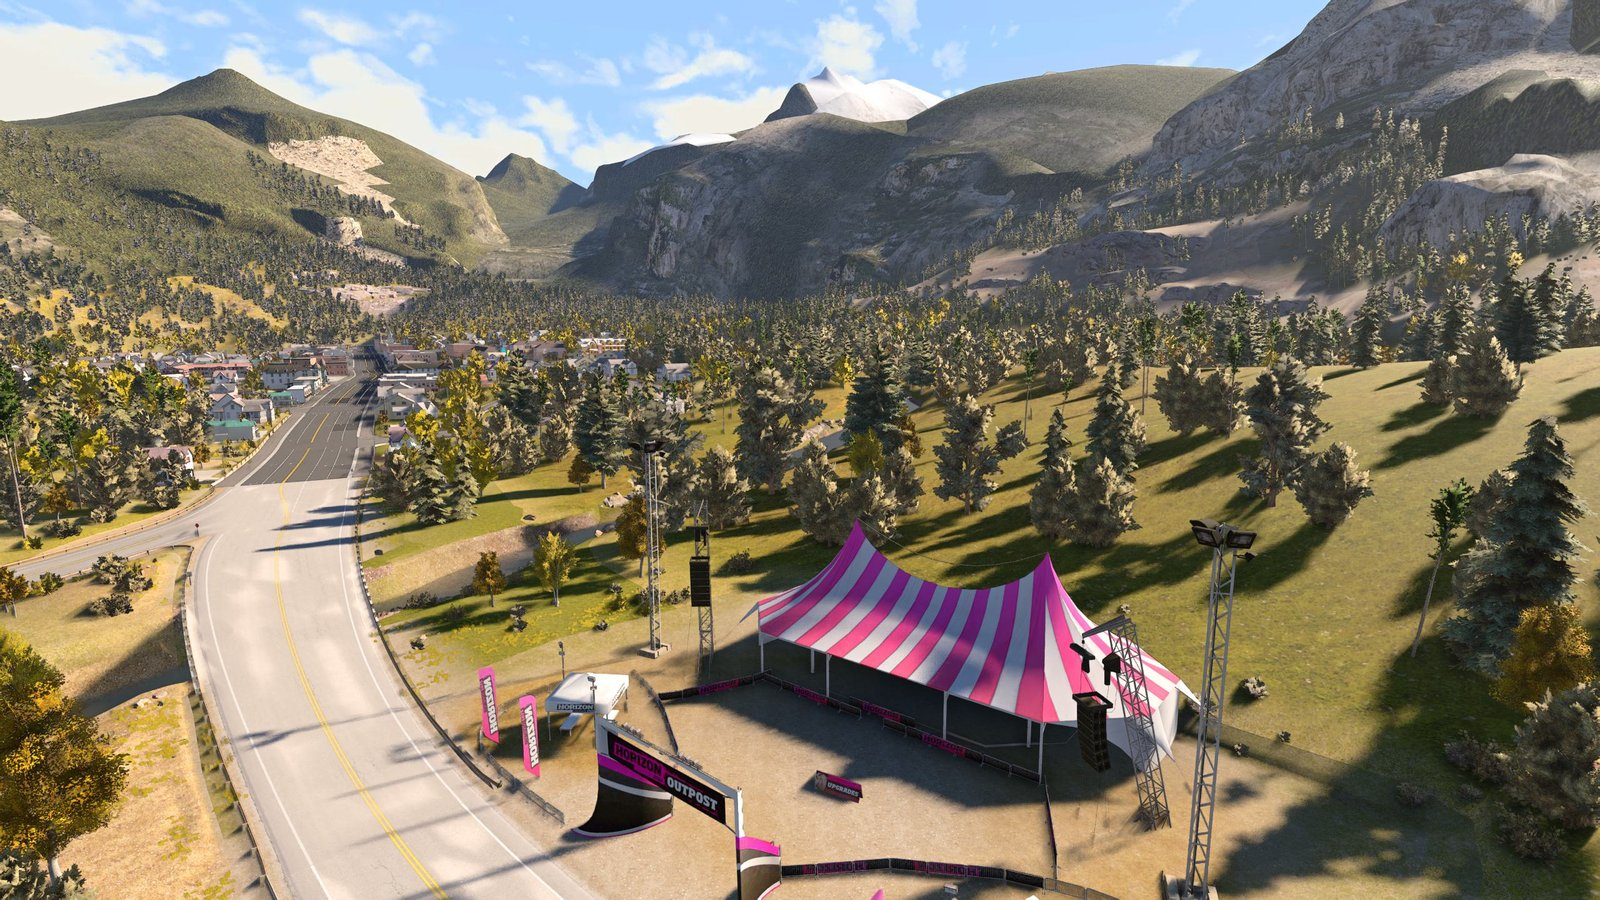
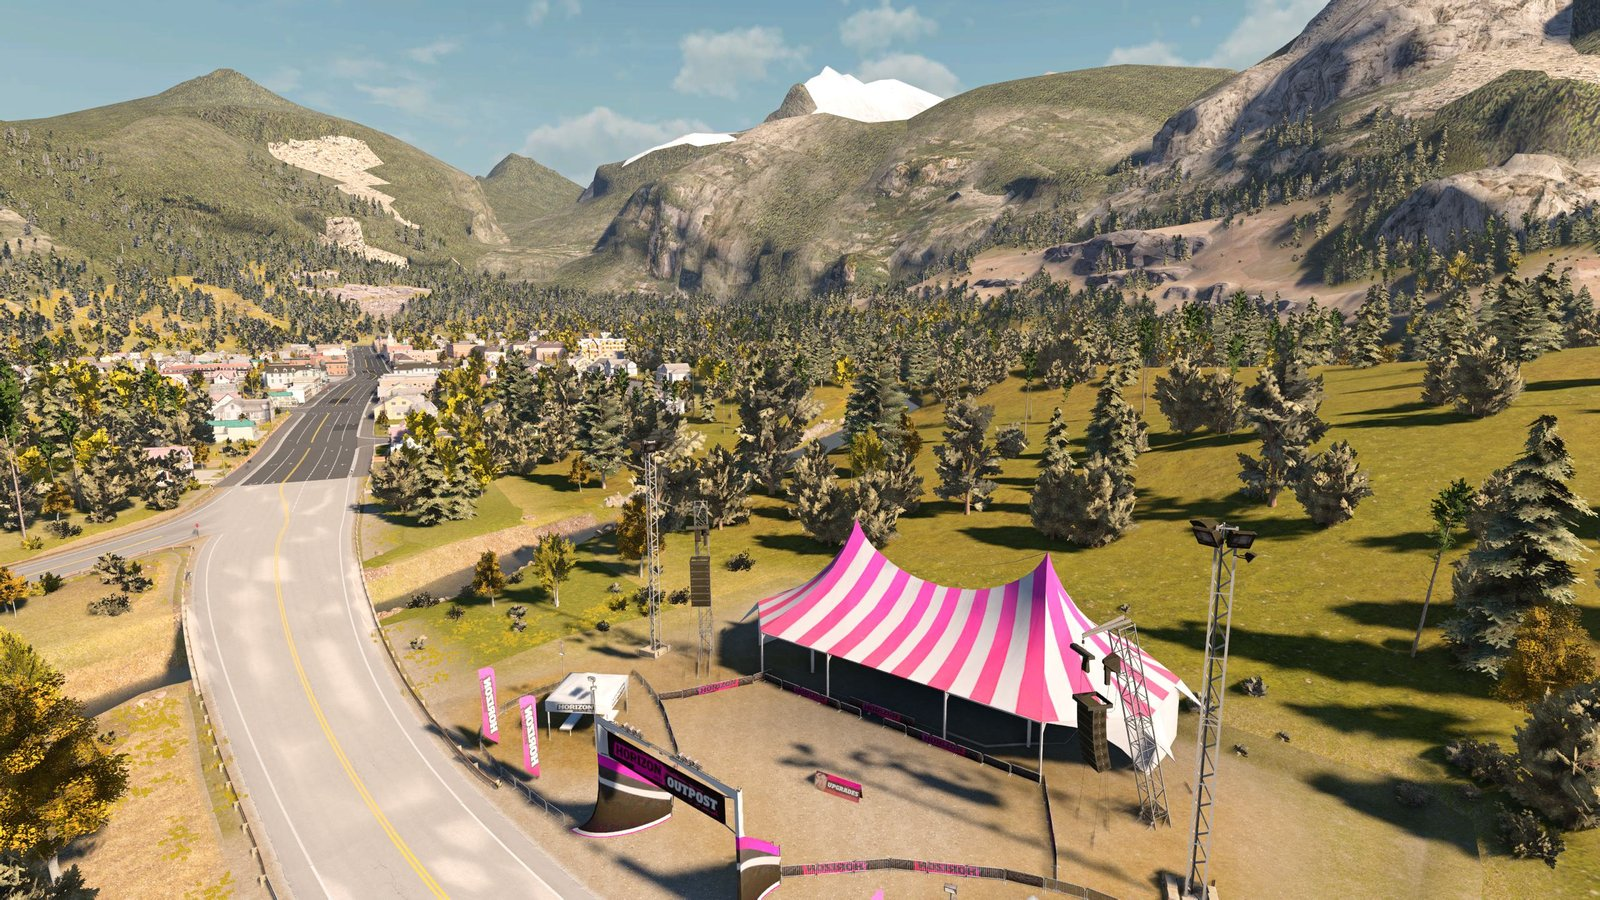
README gallery retaken from the current build; packaging/fh1_shots.py retakes it
The camera positions, times of day and frame choices from the 2026-11-14
gallery, as a script that drives BeamNG over its MCP server and writes the
README's JPEGs and WebPs. Montano Plains and Steelworks move to 0.235, as
BeamNG's sun now follows FH1's path and 0.9 is no longer sunset.

diff --git a/packaging/fh1_shots.py b/packaging/fh1_shots.py
@@ -1,0 +1,187 @@
+"""Retake the FH1 README gallery (docs/screenshots/fh1/) in a running BeamNG through its MCP server.
+
+Load fh1_colorado in BeamNG first, with any car: the car shots teleport your vehicle. The game's MCP server must be on
+(127.0.0.1:29292). Keep the window at the resolution you want the shots in (the originals were 2560x1440).
+
+    python packaging/fh1_shots.py [stills|daycycle|turbines|all]      (default: all)
+
+Camera positions, times of day and frame choices are the ones picked for the 2026-11-14 gallery. Time of day: 0 = noon,
+0.25 is about sunset, 0.3 is night, 0.79 early morning. Raw frames land in BeamNG's screenshots/readme/, and this script
+then writes the README's files: stills as 1600-wide JPEG, the day cycles and turbine loop as animated WebP.
+"""
+import json
+import os
+import sys
+import time
+import urllib.request
+from pathlib import Path
+
+from PIL import Image, ImageChops, ImageStat
+
+REPO = Path(__file__).resolve().parents[1]
+OUT = REPO / "docs" / "screenshots" / "fh1"
+SHOTS = Path(os.environ["LOCALAPPDATA"]) / "BeamNG" / "BeamNG.drive" / "current" / "screenshots" / "readme"
+URL = "http://127.0.0.1:29292/mcp"
+
+# Helpers: shotLook points the free camera from p at t; zoneView frames an outpost spawn from behind and above
+HELPERS = r"""
+function gz(x,y) return be:getSurfaceHeightBelow(vec3(x,y,2000)) end
+function shotLook(px,py,pz,tx,ty,tz,fov)
+  local p=vec3(px,py,pz) local q=quatFromDir((vec3(tx,ty,tz)-p):normalized(), vec3(0,0,1))
+  if not commands.isFreeCamera() then commands.setFreeCamera() end
+  core_camera.setPosRot(0, p.x,p.y,p.z, q.x,q.y,q.z,q.w)
+  if fov then core_camera.setFOV(0, fov) end
+end
+function zoneView(name, yaw, back, up, pd, fov)
+  local p=scenetree.findObject(name):getPosition()
+  local r=math.rad(yaw) local d=vec3(math.sin(r),math.cos(r),0)
+  local cp=p-d*back cp.z=math.max(gz(cp.x,cp.y),p.z)+up
+  local t=p+d*200 t.z=cp.z-math.tan(math.rad(pd))*(200+back)
+  shotLook(cp.x,cp.y,cp.z,t.x,t.y,t.z,fov or 60)
+end
+-- The Montano Plains shot: the car on the road 230 m out from the outpost, seen with the mesas behind it
+function montanoCar()
+  local p=scenetree.findObject('spawn_outpost_montano_plains'):getPosition() local v=be:getPlayerVehicle(0)
+  local m=map.getMap() local target=p+vec3(math.sin(math.rad(-10)),math.cos(math.rad(-10)),0)*230 local best,bd
+  for id,n in pairs(m.nodes) do local d=(n.pos-target):length() if not bd or d<bd then best,bd=id,d end end
+  local n=m.nodes[best] local nb for l,_ in pairs(n.links) do nb=l break end
+  local dir=(m.nodes[nb].pos-n.pos) dir.z=0 dir=dir:normalized()
+  local pos=n.pos+vec3(dir.y,-dir.x,0)*(n.radius*0.4)
+  spawn.safeTeleport(v,pos,quatFromDir(dir,vec3(0,0,1))) v:queueLuaCommand('electrics.setLightsState(0)')
+  local toM=vec3(-3900,-500,0)-pos toM.z=0 toM=toM:normalized()
+  local cp=pos-toM*14+dir*4 cp.z=pos.z+3.5 local t=pos+toM*25 t.z=pos.z+1
+  shotLook(cp.x,cp.y,cp.z,t.x,t.y,t.z,60)
+end
+-- The Red Rock car shot: on the canyon road at nav2196, facing away from nav2219, low camera ahead of it, lights on
+function redRockCar()
+  local m=map.getMap() local n,o=m.nodes['nav2196'],m.nodes['nav2219']
+  local dir=(n.pos-o.pos) dir.z=0 dir=dir:normalized() local right=vec3(dir.y,-dir.x,0) local pos=n.pos+right*2
+  local v=be:getPlayerVehicle(0) spawn.safeTeleport(v,pos,quatFromDir(dir,vec3(0,0,1))) v:queueLuaCommand('electrics.setLightsState(1)')
+  local cp=pos+dir*9-right*2.2 cp.z=gz(cp.x,cp.y)+0.8 local t=pos-dir*6 t.z=pos.z+1.6
+  shotLook(cp.x,cp.y,cp.z,t.x,t.y,t.z,55)
+end
+ZONES = {
+  red_rock=function() zoneView('spawn_outpost_red_rock',10,75,35,9) end,
+  carson=function() zoneView('spawn_outpost_carson',15,0,55,9) end,
+}
+function grab(name) screenshot.doScreenshot(nil,nil,'screenshots/readme/'..name,'jpg') end
+"""
+
+# README file -> (time of day, Lua that sets the scene). Since BeamNG's sun follows FH1's path (2026-11-15), sunset is 0.235: the
+# Montano Plains and Steelworks shots were 0.9 before then. Car shots wait longer so the car settles after its teleport
+STILLS = {
+    "evening_festival": (0.235, "shotLook(-880,-40,165, -760,-150,170, 60)"),
+    "zone_kettle_hills": (0.9, "zoneView('spawn_outpost_kettle_hills',0,60,30,8)"),
+    "zone_clear_springs": (0.9, "shotLook(2350,-1700,gz(2350,-1700)+90, 1700,-1950,gz(1700,-1950)+10, 65)"),
+    "zone_south_beaumont": (0.9, "zoneView('spawn_outpost_south_beaumont',0,60,35,9)"),
+    "zone_rockies": (0.81, "shotLook(6450,2150,gz(6450,2150)+110, 5700,1500,gz(5700,1500), 65)"),
+    "zone_montano_plains": (0.235, "montanoCar()"),
+    "zone_route_4": (0.9, "zoneView('spawn_outpost_route_4',0,-15,45,6)"),
+    "zone_gladstone_estate": (0.9, "zoneView('spawn_outpost_gladstone_estate',5,-10,45,8)"),
+    "zone_steelworks": (0.235, "zoneView('spawn_outpost_steelworks',-55,10,45,8)"),
+    "car_red_rock": (0.87, "redRockCar()"),
+}
+DAY = [0.79, 0.86, 0.0, 0.15, 0.225, 0.3]          # morning -> noon -> afternoon -> sunset -> night
+DAY_ZONES = ["red_rock", "carson"]
+TURBINE_FRAMES = 80                                 # physics steps of one graphics frame each; the loop is cut from these
+
+
+def call(tool, args=None):
+    body = json.dumps({"jsonrpc": "2.0", "id": 1, "method": "tools/call", "params": {"name": tool, "arguments": args or {}}}).encode()
+    req = urllib.request.Request(URL, body, {"Content-Type": "application/json", "Accept": "application/json, text/event-stream"})
+    text = urllib.request.urlopen(req, timeout=60).read().decode()
+    if text.startswith("event:") or "\ndata:" in text:      # streamed reply: the JSON is on the data line
+        text = next(l[5:] for l in text.splitlines() if l.startswith("data:"))
+    r = json.loads(text)
+    if "error" in r or r["result"].get("isError"):
+        sys.exit(f"{tool} failed: {r}")
+    return r["result"]["content"][0]["text"]
+
+
+def lua(code):
+    return call("run_lua", {"code": code})
+
+
+def job(body, label):
+    """Run Lua inside a core_jobsystem job (it may job.sleep) and wait for it to finish"""
+    lua(f"SHOTS_DONE=false SHOTS_ERR=nil core_jobsystem.wrap(function(job) local ok,e=pcall(function() {body} end) "
+        f"SHOTS_ERR=(not ok) and tostring(e) or nil SHOTS_DONE=true end)() return 'ok'")
+    t0 = time.time()
+    while True:
+        time.sleep(3)
+        s = lua("return tostring(SHOTS_DONE)..'|'..tostring(SHOTS_ERR)")
+        done, err = s.split("|", 1)
+        if done == "true":
+            if err != "nil":
+                sys.exit(f"{label}: {err}")
+            print(f"{label}: {time.time() - t0:.0f} s")
+            return
+
+
+def stills():
+    steps = "".join(f"core_environment.setTimeOfDay({{time={t}}}) {scene} job.sleep({5 if 'Car' in scene else 3}) grab('{n}') job.sleep(1.5) "
+                    for n, (t, scene) in STILLS.items())
+    job(steps, "stills")
+    for n in STILLS:
+        im = Image.open(SHOTS / f"{n}.jpg").convert("RGB")
+        im.thumbnail((1600, 900), Image.LANCZOS)
+        im.save(OUT / f"{n}.jpg", quality=85, optimize=True)
+
+
+def daycycle():
+    steps = "".join(f"ZONES['{z}']() " + "".join(f"core_environment.setTimeOfDay({{time={t}}}) job.sleep(2.5) grab('{z}_{round(t * 1000):03d}') job.sleep(0.8) "
+                                                 for t in DAY) for z in DAY_ZONES)
+    job(steps, "day cycles")
+    (OUT / "daycycle").mkdir(exist_ok=True)
+    W, HOLD, FADE, STEPS = 640, 900, 400, 6         # each time held 0.9 s, then a 0.4 s crossfade; night fades back to morning
+    for z in DAY_ZONES:
+        keys = []
+        for t in DAY:
+            im = Image.open(SHOTS / f"{z}_{round(t * 1000):03d}.jpg").convert("RGB")
+            keys.append(im.resize((W, round(W * im.height / im.width)), Image.LANCZOS))
+        frames, durs = [], []
+        for i, k in enumerate(keys):
+            nxt = keys[(i + 1) % len(keys)]
+            frames.append(k); durs.append(HOLD)
+            for s in range(1, STEPS):
+                frames.append(Image.blend(k, nxt, s / STEPS)); durs.append(FADE // STEPS)
+        frames[0].save(OUT / "daycycle" / f"{z}.webp", save_all=True, append_images=frames[1:], duration=durs, loop=0, quality=80, method=6)
+
+
+def turbines():
+    """Route 4's wind turbines, stepped one frame at a time with physics paused, cut where the rotors line up again"""
+    lua("core_environment.setTimeOfDay({time=0.17}) local cx,cy=-1853+40,-1486-150 shotLook(cx,cy,gz(cx,cy)+30,-1853,-1486,236,50) return 'ok'")
+    time.sleep(3)
+    call("pause_physics")
+    try:
+        job(f"job.sleep(0.5) for i=0,{TURBINE_FRAMES - 1} do grab(string.format('turbine_%02d',i)) job.sleep(1.1) be:physicsStep(1) job.sleep(0.3) end", "turbines")
+    finally:
+        call("resume_physics")
+    fr = [Image.open(SHOTS / f"turbine_{i:02d}.jpg").convert("RGB") for i in range(TURBINE_FRAMES)]
+    fr = [f.crop((f.width // 8, 0, f.width - f.width // 8, f.height)).resize((720, 540), Image.LANCZOS) for f in fr]    # 4:3, centred
+    # The rotors' period isn't a whole number of steps: pick the frame after 20 that looks most like the first
+    diff = lambda a, b: sum(ImageStat.Stat(ImageChops.difference(a, b)).mean)
+    end = min(range(20, len(fr)), key=lambda i: diff(fr[0], fr[i]))
+    print(f"turbine loop: {end} frames")
+    fr[0].save(OUT / "turbines.webp", save_all=True, append_images=fr[1:end], duration=32, loop=0, quality=80, method=4)
+
+
+def main():
+    what = sys.argv[1] if len(sys.argv) > 1 else "all"
+    level = json.loads(call("get_status")).get("level", "")
+    if "fh1_colorado" not in level:
+        sys.exit(f"load fh1_colorado first (BeamNG has {level or 'no level'})")
+    SHOTS.mkdir(parents=True, exist_ok=True)
+    lua(HELPERS + " return 'ok'")
+    call("toggle_ui", {"show": False})
+    try:
+        for name, fn in (("stills", stills), ("daycycle", daycycle), ("turbines", turbines)):
+            if what in (name, "all"):
+                fn()
+    finally:
+        call("toggle_ui", {"show": True})
+    print("done ->", OUT)
+
+
+if __name__ == "__main__":
+    main()
